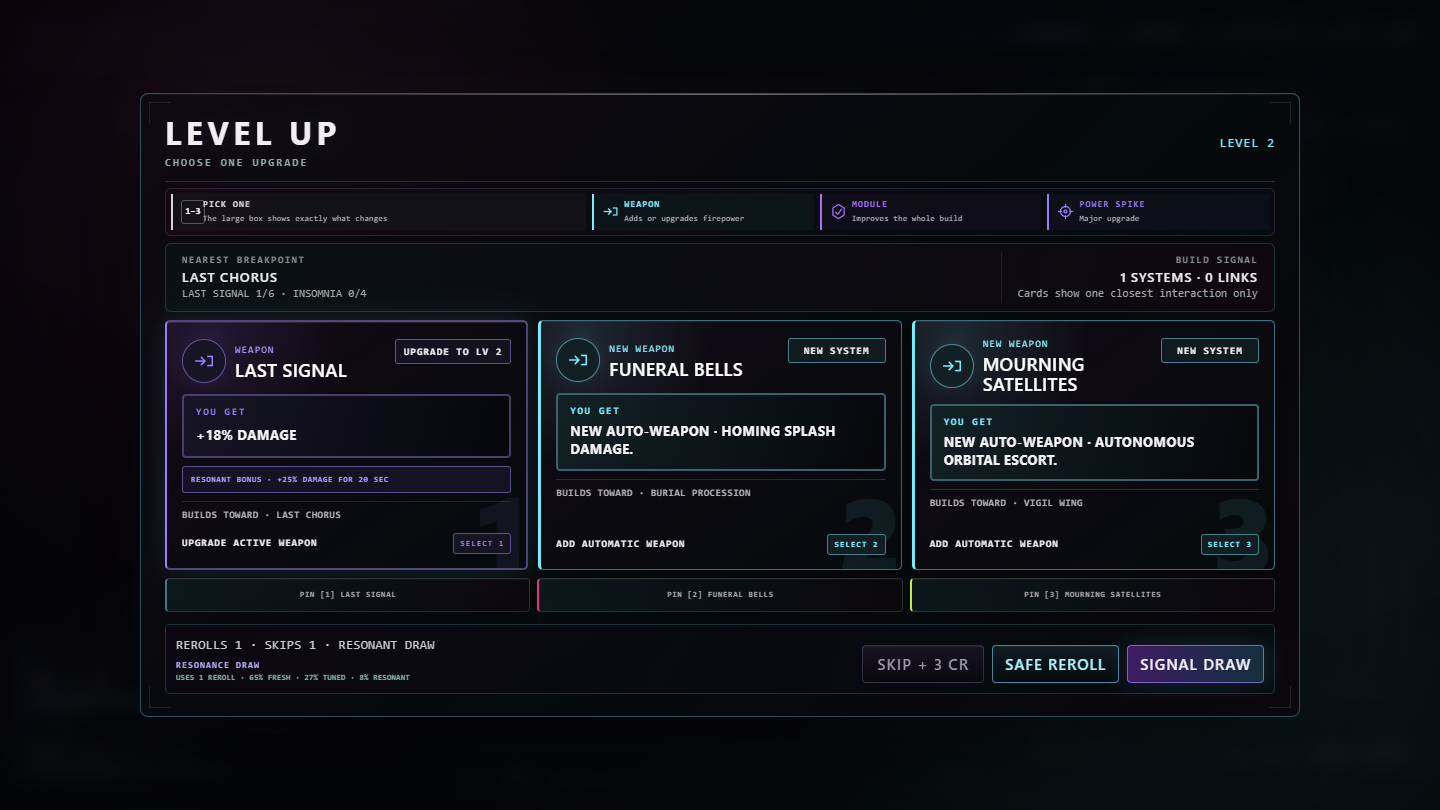
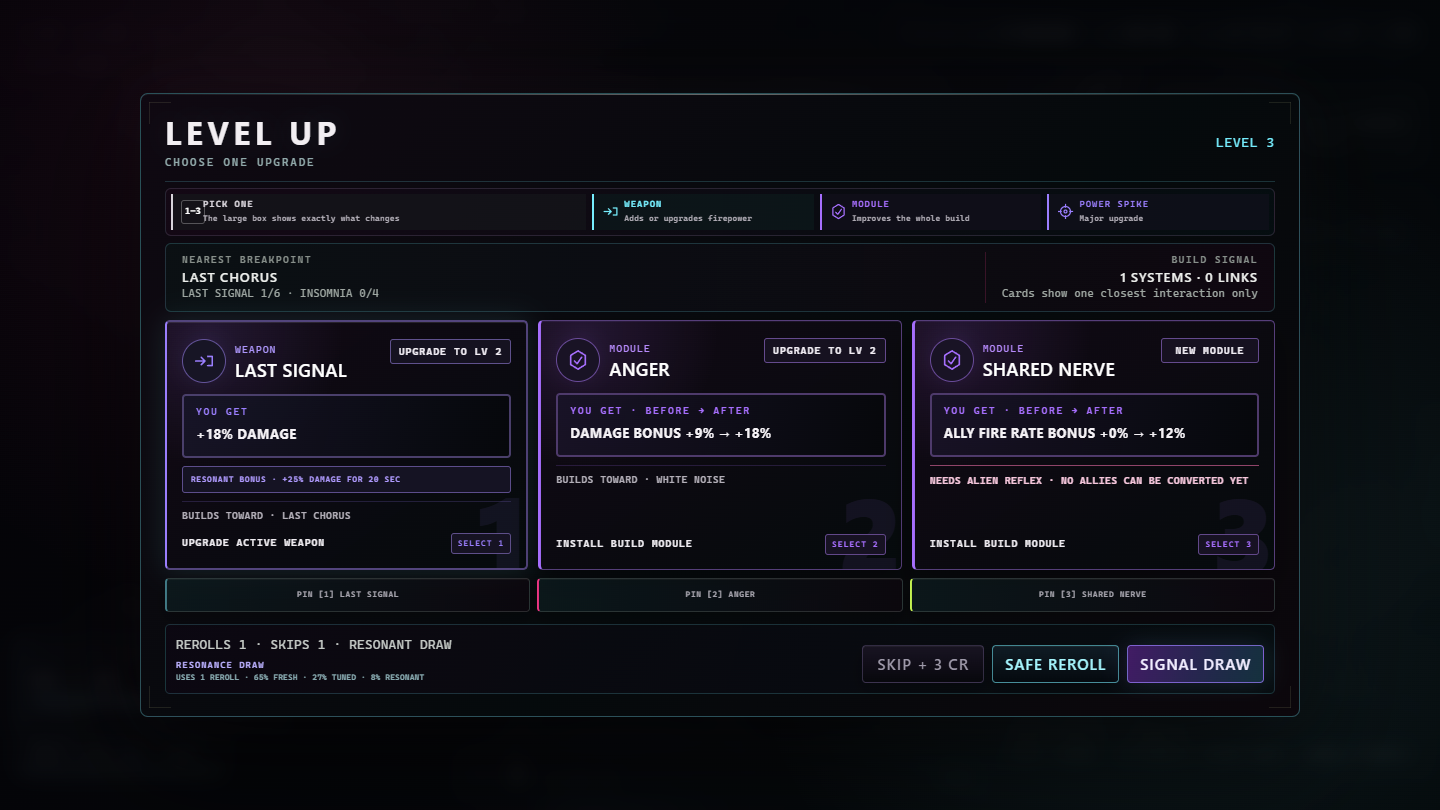
fix: clarify upgrade benefits and protect level-up input

diff --git a/game.js b/game.js
@@ -354,7 +354,7 @@ let state=null;
 
 const PASSIVES={
   reactor:{name:'ANGER',max:6,desc:l=>`Weapon damage +${l*9}%`,apply:l=>{state.p.damageMul=state.p.baseDamageMul*(1+l*.09)}},
-  overclock:{name:'INSOMNIA',max:6,desc:l=>`Weapon cooldown -${l*6}%`,apply:l=>{state.p.cooldownMul=state.p.baseCooldownMul*Math.pow(.94,l)}},
+  overclock:{name:'INSOMNIA',max:6,desc:l=>`Weapon cooldown -${Number(((1-Math.pow(.94,l))*100).toFixed(1))}%`,apply:l=>{state.p.cooldownMul=state.p.baseCooldownMul*Math.pow(.94,l)}},
   targeting:{name:'FIXATION',max:6,desc:l=>`Critical chance +${l*2.5}%`,apply:l=>{state.p.crit=state.p.baseCrit+l*.025}},
   armor:{name:'DENIAL',max:6,desc:l=>`Damage taken -${l*3.5}% · hull +${l*6}`,apply:l=>{state.p.moduleArmor=l*.035;state.p.maxHp=state.p.baseHp+l*6;state.p.hp=Math.min(state.p.hp+6,state.p.maxHp)}},
   velocity:{name:'PANIC',max:6,desc:l=>`Projectile speed +${l*11}%`,apply:l=>{state.p.projectileMul=1+l*.11}},
@@ -799,7 +799,40 @@ function offerPresentation(o,breakpoint=false){
   if(o.key==='repair')return{tone:'utility',icon:'hull',action:'REPAIR HULL NOW'};
   return{tone:'module',icon:'trait',action:'INSTALL UPGRADE'}
 }
-function offerSummary(o){if(o.key.startsWith('new:'))return`NEW AUTO-WEAPON · ${WEAPON_QUICK_DESC[o.systemId]||'Automatically attacks nearby hostiles.'}`;if(o.key.startsWith('oc:'))return'+16% DAMAGE FOR THIS EVOLVED WEAPON';if(o.key==='repair')return'RESTORE 16% MAXIMUM HULL NOW';const first=String(o.desc||'').split(/(?<=[.!?])\s+/)[0].replace(/\.$/,'');return(first.length>76?`${first.slice(0,73).trim()}…`:first).toUpperCase()}
+function upgradeNumber(value,precision=1){return String(Number(value.toFixed(precision)))}
+function passiveOfferSummary(id){
+  const level=state.passives[id]||0,next=level+1,p=state.p;
+  const bonus=(label,step)=>`${label} +${upgradeNumber(level*step)}% → +${upgradeNumber(next*step)}%`;
+  switch(id){
+    case'reactor':return bonus('DAMAGE BONUS',9);
+    case'overclock':return`COOLDOWN REDUCTION ${upgradeNumber((1-.94**level)*100)}% → ${upgradeNumber((1-.94**next)*100)}%`;
+    case'targeting':return`CRIT CHANCE ${upgradeNumber(p.crit*100)}% → ${upgradeNumber((p.baseCrit+next*.025)*100)}%`;
+    case'armor':return`MAX HULL ${upgradeNumber(p.maxHp)} → ${upgradeNumber(p.baseHp+next*6)} · ${bonus('ARMOR',3.5)}`;
+    case'velocity':return bonus('PROJECTILE SPEED BONUS',11);
+    case'thruster':return bonus('MOVEMENT SPEED BONUS',5);
+    case'magnet':return`PICKUP RADIUS ${upgradeNumber(p.magnet)} → ${upgradeNumber(p.baseMagnet+next*24)}`;
+    case'iff':return`CONVERT ON HIT ${upgradeNumber(p.convertChance*100,2)}% → ${upgradeNumber(.18+next*.20,2)}% · UP TO ${1+Math.floor(next/2)} ALLIES`;
+    case'amplifier':return bonus('AREA RADIUS BONUS',9);
+    case'capacitor':return bonus('SPECIAL FIRE RATE BONUS',7);
+    case'loyalty':return`${bonus('ALLY LIFETIME',18)} · ${bonus('ALLY DAMAGE',8)}`;
+    case'uplink':return bonus('ALLY FIRE RATE BONUS',12);
+    case'scuttle':return`ALLY DEATH BLAST ${level*35}% → ${next*35}% WEAPON OUTPUT`;
+    default:return PASSIVES[id].desc(next).toUpperCase();
+  }
+}
+function offerRequirement(o){
+  if(['loyalty','uplink','scuttle'].includes(o.passiveId)&&state.p.convertChance<=0)return'NEEDS ALIEN REFLEX · NO ALLIES CAN BE CONVERTED YET';
+  if(o.passiveId==='capacitor'&&!['nova','beam','rift'].some(id=>state.weapons[id]))return'NEEDS DEAD SUN, PALE LIGHT OR ABSENCE';
+  return'';
+}
+function offerSummary(o){
+  if(o.key.startsWith('p:'))return passiveOfferSummary(o.passiveId);
+  if(o.key.startsWith('new:'))return`NEW AUTO-WEAPON · ${WEAPON_QUICK_DESC[o.systemId]||'Automatically attacks nearby hostiles.'}`;
+  if(o.key.startsWith('oc:')){const level=state.weapons[o.systemId]?.overcharge||0;return`WEAPON OUTPUT BONUS +${level*16}% → +${(level+1)*16}%`}
+  if(o.key==='repair'){const heal=Math.max(0,Math.min(state.p.maxHp-state.p.hp,state.p.maxHp*.16*(state.contract?.heal??1)));return heal>0?`RESTORE ${upgradeNumber(heal)} HULL NOW`:'HULL ALREADY FULL · NO REPAIR NEEDED'}
+  // Keep complete tradeoffs and conditional effects visible, including a second sentence.
+  return String(o.desc||'').replace(/\.$/,'').toUpperCase();
+}
 function connectionSummary(connection){if(!connection)return'';const parts=connection.split(' · '),name=parts[1]||'';if(parts[0]==='LINK READY')return`UNLOCKS LINK · ${name}`;if(parts[0]==='LINK PATH')return`HELPS UNLOCK · ${name}`;if(parts[0]==='EVOLUTION'||parts[0]==='FUTURE EVOLUTION')return`BUILDS TOWARD · ${name}`;return parts.slice(0,2).join(' · ')}
 function offerBreakpoint(o){if(o.key.startsWith('w:'))return(state.weapons[o.systemId]?.level||0)+1===6;if(o.key.startsWith('p:'))return(state.passives[o.passiveId]||0)+1===4;return false}
 function evolutionTargets(){return Object.entries(state.weapons).filter(([_id,w])=>!w.evolved).map(([id,w])=>{const m=WEAPON_META[id],passive=state.passives[m.req]||0,progress=w.level/6*.62+Math.min(4,passive)/4*.38;return{id,w,m,passive,progress}}).sort((a,b)=>b.progress-a.progress)}
@@ -828,17 +861,41 @@ function drawFreshOffers(previousKeys=[],pinnedOffer=null,forcedOffer=null){
   return offers
 }
 const SIGNAL_DRAW_TIERS={FRESH:{tier:1,detail:'THREE NEW OFFERS'},TUNED:{tier:2,detail:'ONE BUILD-MATCHED OFFER GUARANTEED'},RESONANT:{tier:3,detail:'PRIORITY OFFER · SELECT IT FOR +25% DAMAGE / 20 SEC'}};
-function signalDrawCandidate(tier,pinnedKey=''){const pool=buildOfferPool().filter(o=>o.key!==pinnedKey),connected=pool.filter(o=>offerConnection(o)),priority=pool.filter(o=>offerBreakpoint(o)||o.key.startsWith('artifact:')||o.key.startsWith('proto:'));const candidates=tier==='RESONANT'?(priority.length?priority:connected):tier==='TUNED'?connected:[];const offer=candidates.length?weighted(candidates,1)[0]:null;return offer?{...offer,signalTier:tier}:null}
+function signalDrawCandidate(tier,pinnedKey=''){const pool=buildOfferPool().filter(o=>o.key!==pinnedKey&&!offerRequirement(o)),connected=pool.filter(o=>{const link=offerConnection(o);return link&&!link.startsWith('FUTURE EVOLUTION')}),priority=pool.filter(o=>offerBreakpoint(o)||o.key.startsWith('artifact:')||o.key.startsWith('proto:'));const candidates=tier==='RESONANT'?(priority.length?priority:connected):tier==='TUNED'?connected:[];const offer=candidates.length?weighted(candidates,1)[0]:null;return offer?{...offer,signalTier:tier}:null}
 function renderRerollInfo(isNewDraw=false,signalTier=''){const pinned=state.pinnedOfferKey?' · 1 PINNED':'',draw=signalTier?` · ${signalTier} DRAW`:isNewDraw?' · NEW DRAW':'';$('rerollInfo').textContent=`REROLLS ${state.rerolls} · SKIPS ${state.skips}${pinned}${draw}`}
 function renderOfferPins(offers){const box=$('offerPins');box.innerHTML='';for(const [i,o] of offers.entries()){const b=document.createElement('button'),pinned=state.pinnedOfferKey===o.key;b.className=`offerPin${pinned?' selected':''}`;b.textContent=`${pinned?'PINNED':'PIN'} [${i+1}] ${o.name}`;b.setAttribute('aria-pressed',String(pinned));b.onclick=()=>togglePinnedOffer(o.key);box.appendChild(b)}}
-function togglePinnedOffer(key){if(!state?.choosing||state.choiceMode!=='level')return false;state.pinnedOfferKey=state.pinnedOfferKey===key?'':key;AUDIO.sfx('ui');renderOfferPins(state.currentOffers);renderRerollInfo();return true}
+function togglePinnedOffer(key){if(!state?.choosing||state.choiceMode!=='level')return false;const index=state.currentOffers.findIndex(o=>o.key===key);if(index<0)return false;state.pinnedOfferKey=state.pinnedOfferKey===key?'':key;AUDIO.sfx('ui');renderOfferPins(state.currentOffers);renderRerollInfo();$('offerPins').children[index]?.focus({preventScroll:true});return true}
 function openLevel(){state.choosing=true;state.choiceMode='level';state.paused=true;state.pinnedOfferKey='';AUDIO.sfx('level');show('levelScreen');renderOffers()}
-function renderOffers(previousKeys=[],pinnedOffer=null,draw={}){const offers=drawFreshOffers(previousKeys,pinnedOffer,draw.forcedOffer||null),c=$('choices');c.innerHTML='';renderBuildCompass();offers.forEach((o,i)=>{const b=document.createElement('button'),connection=offerConnection(o),shortConnection=connectionSummary(connection),breakpoint=offerBreakpoint(o),impact=offerImpact(o),summary=offerSummary(o),presentation=offerPresentation(o,breakpoint),signalNote=o.signalTier==='RESONANT'?'RESONANT BONUS · +25% DAMAGE FOR 20 SEC':o.signalTier==='TUNED'?'TUNED SIGNAL · MATCHES YOUR CURRENT BUILD':'';b.className=`choice${breakpoint?' breakpoint':''}${o.signalTier?' signalOffer':''}`;b.dataset.tone=presentation.tone;if(o.signalTier)b.dataset.signal=o.signalTier.toLowerCase();b.style.animationDelay=`${i*55}ms`;b.innerHTML=`<span class="choiceNumber" aria-hidden="true">${i+1}</span><span class="choiceTop"><span class="choiceIdentity"><span class="choiceGlyph">${uiIconMarkup(presentation.icon)}</span><span><span class="kind">${o.kind}</span><span class="name">${o.name}</span></span></span><span class="lvl">${o.lvl}</span></span><span class="choiceBenefit"><small>YOU GET</small><b>${summary}</b></span>${signalNote?`<span class="signalBonus">${signalNote}</span>`:''}${shortConnection?`<span class="connection">${shortConnection}</span>`:''}<span class="choiceAction"><span>${presentation.action}</span><kbd>SELECT ${i+1}</kbd></span>`;b.title=[o.desc,impact,signalNote,connection].filter(Boolean).join('\n');b.setAttribute('aria-label',[`${i+1}. ${o.name}`,o.lvl,summary,signalNote,connection].filter(Boolean).join('. '));b.onclick=()=>selectOffer(o);c.appendChild(b)});state.currentOffers=offers;renderOfferPins(offers);renderRerollInfo(previousKeys.length>0,draw.tier||'');$('rerollBtn').disabled=state.rerolls<=0;$('signalDrawBtn').disabled=state.rerolls<=0;$('skipBtn').disabled=state.skips<=0;$('levelMeta').textContent=`LEVEL ${state.level}`}
-function selectOffer(o){if(!o)return;const breakpoint=offerBreakpoint(o),special=o.key.startsWith('artifact:')||o.key.startsWith('proto:');if(!special)AUDIO.sfx('install',breakpoint?2:1);o.apply();if(o.signalTier==='RESONANT'){state.fieldBoostUntil=Math.max(state.fieldBoostUntil,state.time+20);rewardCue('RESONANT INSTALL',`${o.name} · +25% DAMAGE FOR 20 SEC`,3,1700)}recordUpgrade(o.name,o.kind,[o.lvl,o.signalTier==='RESONANT'?'+25% DAMAGE / 20 SEC':''].filter(Boolean).join(' · '));state.pinnedOfferKey='';state.upgradePulse=.9;state.lastUpgradeLabel=o.name;const evolved=tryEvolutions();if(breakpoint&&!evolved.length&&o.signalTier!=='RESONANT')rewardCue('BREAKPOINT REACHED',o.name,1,1250);hide('levelScreen');state.choosing=false;state.choiceMode='';state.paused=false;state.last=performance.now();processCeremony();if(!state.ceremony)processPendingLevel()}
-$('rerollBtn').onclick=()=>{if(state.rerolls>0){const previousKeys=state.currentOffers.map(o=>o.key),pinnedOffer=state.currentOffers.find(o=>o.key===state.pinnedOfferKey)||null;state.rerolls--;AUDIO.sfx('reroll');renderOffers(previousKeys,pinnedOffer)}};
-$('signalDrawBtn').onclick=()=>{if(state.rerolls<=0)return;const previousKeys=state.currentOffers.map(o=>o.key),pinnedOffer=state.currentOffers.find(o=>o.key===state.pinnedOfferKey)||null,roll=Math.random(),tier=roll<.08?'RESONANT':roll<.35?'TUNED':'FRESH',forcedOffer=signalDrawCandidate(tier,pinnedOffer?.key||'');state.rerolls--;AUDIO.sfx(tier==='RESONANT'?'artifact':tier==='TUNED'?'streak':'reroll');renderOffers(previousKeys,pinnedOffer,{tier,forcedOffer});const result=SIGNAL_DRAW_TIERS[tier];rewardCue(`SIGNAL DRAW · ${tier}`,result.detail,result.tier,1500)};
-$('skipBtn').onclick=()=>{if(state.skips<=0)return;state.skips--;state.pinnedOfferKey='';recordUpgrade('SALVAGE CONVERSION','UTILITY','SKIPPED UPGRADE · +3 CR');runCredit(3);state.score+=40;AUDIO.sfx('ui');hide('levelScreen');state.choosing=false;state.choiceMode='';state.paused=false;state.last=performance.now();message('SALVAGE +3 CR',500);processPendingLevel()};
-addEventListener('keydown',e=>{if(!state?.choosing)return;const i=Number(e.key)-1;if(i<0)return;if(state.choiceMode==='doctrine'){const o=state.currentDoctrineOffers?.[i];if(o)selectDoctrine(o.id)}else{const o=state.currentOffers?.[i];if(o)selectOffer(o)}});
+function renderOffers(previousKeys=[],pinnedOffer=null,draw={}){
+  const offers=drawFreshOffers(previousKeys,pinnedOffer,draw.forcedOffer||null),c=$('choices');
+  c.innerHTML='';renderBuildCompass();
+  offers.forEach((o,i)=>{
+    const b=document.createElement('button'),connection=offerConnection(o),requirement=offerRequirement(o),shortConnection=connectionSummary(connection),breakpoint=offerBreakpoint(o),impact=offerImpact(o),summary=offerSummary(o),presentation=offerPresentation(o,breakpoint),signalNote=o.signalTier==='RESONANT'?'RESONANT BONUS · +25% DAMAGE FOR 20 SEC':o.signalTier==='TUNED'?'TUNED SIGNAL · MATCHES YOUR CURRENT BUILD':'';
+    b.className=`choice${breakpoint?' breakpoint':''}${o.signalTier?' signalOffer':''}`;
+    b.dataset.tone=presentation.tone;if(o.signalTier)b.dataset.signal=o.signalTier.toLowerCase();
+    b.style.animationDelay=`${i*55}ms`;
+    b.innerHTML=`<span class="choiceNumber" aria-hidden="true">${i+1}</span><span class="choiceTop"><span class="choiceIdentity"><span class="choiceGlyph">${uiIconMarkup(presentation.icon)}</span><span><span class="kind">${o.kind}</span><span class="name">${o.name}</span></span></span><span class="lvl">${o.lvl}</span></span><span class="choiceBenefit"><small>YOU GET${o.passiveId?' · BEFORE → AFTER':''}</small><b>${summary}</b></span>${signalNote?`<span class="signalBonus">${signalNote}</span>`:''}${requirement?`<span class="connection choiceRequirement">${requirement}</span>`:shortConnection?`<span class="connection">${shortConnection}</span>`:''}<span class="choiceAction"><span>${presentation.action}</span><kbd>SELECT ${i+1}</kbd></span>`;
+    b.title=[o.desc,impact,requirement,signalNote,connection].filter(Boolean).join('\n');
+    b.setAttribute('aria-label',[`${i+1}. ${o.name}`,o.lvl,summary,requirement,signalNote,connection].filter(Boolean).join('. '));
+    b.onclick=()=>selectOffer(o);c.appendChild(b);
+  });
+  state.currentOffers=offers;renderOfferPins(offers);renderRerollInfo(previousKeys.length>0,draw.tier||'');
+  $('rerollBtn').disabled=state.rerolls<=0;$('signalDrawBtn').disabled=state.rerolls<=0;$('skipBtn').disabled=state.skips<=0;$('levelMeta').textContent=`LEVEL ${state.level}`;
+  c.querySelector('button')?.focus({preventScroll:true});
+}
+function selectOffer(o){if(!o||!state?.choosing||state.choiceMode!=='level'||!state.currentOffers.includes(o))return false;state.currentOffers=[];const breakpoint=offerBreakpoint(o),special=o.key.startsWith('artifact:')||o.key.startsWith('proto:');if(!special)AUDIO.sfx('install',breakpoint?2:1);o.apply();if(o.signalTier==='RESONANT'){state.fieldBoostUntil=Math.max(state.fieldBoostUntil,state.time+20);rewardCue('RESONANT INSTALL',`${o.name} · +25% DAMAGE FOR 20 SEC`,3,1700)}recordUpgrade(o.name,o.kind,[o.lvl,o.signalTier==='RESONANT'?'+25% DAMAGE / 20 SEC':''].filter(Boolean).join(' · '));state.pinnedOfferKey='';state.upgradePulse=.9;state.lastUpgradeLabel=o.name;const evolved=tryEvolutions();if(breakpoint&&!evolved.length&&o.signalTier!=='RESONANT')rewardCue('BREAKPOINT REACHED',o.name,1,1250);hide('levelScreen');state.choosing=false;state.choiceMode='';state.paused=false;state.last=performance.now();processCeremony();if(!state.ceremony)processPendingLevel();return true}
+$('rerollBtn').onclick=()=>{if(state?.choosing&&state.choiceMode==='level'&&state.rerolls>0){const previousKeys=state.currentOffers.map(o=>o.key),pinnedOffer=state.currentOffers.find(o=>o.key===state.pinnedOfferKey)||null;state.rerolls--;AUDIO.sfx('reroll');renderOffers(previousKeys,pinnedOffer)}};
+$('signalDrawBtn').onclick=()=>{if(!state?.choosing||state.choiceMode!=='level'||state.rerolls<=0)return;const previousKeys=state.currentOffers.map(o=>o.key),pinnedOffer=state.currentOffers.find(o=>o.key===state.pinnedOfferKey)||null,roll=Math.random(),tier=roll<.08?'RESONANT':roll<.35?'TUNED':'FRESH',forcedOffer=signalDrawCandidate(tier,pinnedOffer?.key||'');state.rerolls--;AUDIO.sfx(tier==='RESONANT'?'artifact':tier==='TUNED'?'streak':'reroll');renderOffers(previousKeys,pinnedOffer,{tier,forcedOffer});const result=SIGNAL_DRAW_TIERS[tier];rewardCue(`SIGNAL DRAW · ${tier}`,result.detail,result.tier,1500)};
+$('skipBtn').onclick=()=>{if(!state?.choosing||state.choiceMode!=='level'||state.skips<=0)return;state.skips--;state.currentOffers=[];state.pinnedOfferKey='';recordUpgrade('SALVAGE CONVERSION','UTILITY','SKIPPED UPGRADE · +3 CR');runCredit(3);state.score+=40;AUDIO.sfx('ui');hide('levelScreen');state.choosing=false;state.choiceMode='';state.paused=false;state.last=performance.now();message('SALVAGE +3 CR',500);processPendingLevel()};
+addEventListener('keydown',e=>{
+  if(!state?.choosing||e.altKey||e.ctrlKey||e.metaKey)return;
+  if(e.repeat&&(/^[1-3]$/.test(e.key)||e.key==='Enter'||e.key===' ')){e.preventDefault();return}
+  if(!/^[1-3]$/.test(e.key))return;
+  const overlay=visibleOverlay(),expected=state.choiceMode==='doctrine'?'doctrineScreen':'levelScreen';
+  if(overlay&&overlay.id!==expected)return;
+  const i=Number(e.key)-1;e.preventDefault();
+  if(state.choiceMode==='doctrine'){const o=state.currentDoctrineOffers?.[i];if(o)selectDoctrine(o.id)}else{const o=state.currentOffers?.[i];if(o)selectOffer(o)}
+});
 
 // ---------- RUN START / SPAWNING ----------
 let briefingPreviewMode=false;

diff --git a/tests/smoke.js b/tests/smoke.js
@@ -258,3 +258,42 @@ vm.runInContext(`
   if(!state.gameOver || !state.victory || state.bossesKilled<3) throw new Error('full run timeline failed');
 `,ctx);
 console.log('ORBIT full-run timeline: PASS');
+
+vm.runInContext(`{
+  toMenu();save.settings.audio='OFF';save.briefingSeen=true;save.contract='NONE';save.selected='striker';startRun();
+  state.level=5;
+  const passive=id=>({key:'p:'+id,passiveId:id});
+  if(offerSummary(passive('iff'))!=='CONVERT ON HIT 0% → 0.38% · UP TO 1 ALLIES')throw new Error('conversion summary lost fractional precision');
+  for(const id of Object.keys(PASSIVES)){
+    state.passives[id]=1;PASSIVES[id].apply(1);
+    const summary=offerSummary(passive(id));
+    if(!summary.includes('→')||/NaN|undefined/.test(summary))throw new Error('missing before/after module summary: '+id);
+  }
+  if(offerSummary(passive('reactor'))!=='DAMAGE BONUS +9% → +18%')throw new Error('module total was presented as an additional gain');
+  if(offerSummary(passive('overclock'))!=='COOLDOWN REDUCTION 6% → 11.6%'||!PASSIVES.overclock.desc(2).includes('11.6%'))throw new Error('cooldown description ignored multiplicative stacking');
+  state.p.convertChance=0;
+  for(const id of ['loyalty','uplink','scuttle'])if(!offerRequirement(passive(id)).includes('NEEDS ALIEN REFLEX'))throw new Error('ally module omitted its dependency');
+  if(!offerRequirement(passive('capacitor')).includes('PALE LIGHT'))throw new Error('special module omitted compatible systems');
+  state.p.convertChance=.0038;addWeapon('beam');
+  if(offerRequirement(passive('loyalty'))||offerRequirement(passive('capacitor')))throw new Error('dependency warning persisted for compatible build');
+  state.p.hp=state.p.maxHp-2;
+  if(offerSummary({key:'repair'})!=='RESTORE 2 HULL NOW')throw new Error('repair summary ignored missing hull');
+  state.p.hp=state.p.maxHp;
+  if(!offerSummary({key:'repair'}).includes('ALREADY FULL'))throw new Error('full-hull repair promised a benefit');
+  const tradeoff='Increases output. Incoming damage +10%.';
+  if(!offerSummary({key:'proto:test',desc:tradeoff}).includes('INCOMING DAMAGE +10%'))throw new Error('tradeoff was truncated');
+  state.p.convertChance=0;delete state.weapons.beam;
+  for(let i=0;i<40;i++){const offer=signalDrawCandidate('TUNED');if(offer&&(offerRequirement(offer)||offerConnection(offer).startsWith('FUTURE EVOLUTION')))throw new Error('tuned draw selected an incompatible future build');}
+  openLevel();
+  const stale=state.currentOffers[0];renderOffers();const history=state.upgradeHistory.length;
+  if(selectOffer(stale)!==false||state.upgradeHistory.length!==history)throw new Error('stale offer applied after reroll');
+  let prevented=0;const choiceKey=windowListeners.keydown.at(-1),event={key:'1',repeat:true,preventDefault(){prevented++}};
+  choiceKey(event);choiceKey({...event,key:'Enter'});choiceKey({...event,key:' '});
+  if(prevented!==3||state.upgradeHistory.length!==history)throw new Error('held key consumed upgrade');
+  choiceKey({...event,repeat:false,altKey:true});if(state.upgradeHistory.length!==history)throw new Error('system shortcut selected an upgrade');
+  const picked=state.currentOffers[0];choiceKey({...event,repeat:false});
+  if(state.upgradeHistory.length!==history+1||selectOffer(picked)!==false)throw new Error('offer was not selected exactly once');
+  const resources=[state.rerolls,state.skips];$('rerollBtn').onclick();$('signalDrawBtn').onclick();$('skipBtn').onclick();
+  if(state.rerolls!==resources[0]||state.skips!==resources[1])throw new Error('hidden upgrade controls spent resources');
+}`,ctx);
+console.log('ORBIT upgrade clarity and input safety: PASS');

diff --git a/styles.css b/styles.css
@@ -498,5 +498,7 @@ button:hover:not(:disabled){border-color:rgba(195,190,140,.78);background:linear
 .toast.intel{border-color:rgba(83,229,255,.74);border-left-color:#53e5ff;background:linear-gradient(135deg,rgba(6,19,27,.99),rgba(13,8,20,.99));box-shadow:0 0 0 1px rgba(83,229,255,.08),0 14px 42px rgba(0,0,0,.68)}.toast.intel b{color:#e9fdff;text-shadow:0 0 12px rgba(83,229,255,.30)}.toast.intel span{color:#d7f8ff;font-weight:700}
 #pauseScreen .pauseSnapshot span{font-size:calc(9.5px * var(--ui-scale));font-weight:750;color:#a1a7af}#pauseScreen .pauseSnapshot b{font-size:calc(13px * var(--ui-scale))}
 #levelScreen .choiceBenefit small{font-size:calc(9px * var(--ui-scale));color:var(--choice-accent)}#levelScreen .choiceBenefit b{font-size:calc(12px * var(--ui-scale))}#levelScreen .choice .connection,#levelScreen .choiceAction{font-size:calc(9px * var(--ui-scale))}.choiceGuide small{font-size:calc(8.5px * var(--ui-scale));color:#b4afb8}
+#levelScreen .choice .choiceRequirement{color:#ffc7dd;border-top-color:#9a4269;line-height:1.5}
+#levelScreen .choiceBenefit b{line-height:1.45;overflow-wrap:anywhere}
 .intelMetric span,.intelItem small,.intelBadge,.intelHelp{font-size:calc(9.5px * var(--ui-scale));color:#aeb5b2}.intelItem p{font-size:calc(11px * var(--ui-scale));color:#c2cac6}
 @media(max-width:780px){#navigationSignal{min-width:240px;max-width:340px}#navigationSignal b{font-size:calc(10px * var(--ui-scale))}#navigationSignal small{font-size:calc(8.5px * var(--ui-scale))}#directiveTracker b{font-size:calc(10px * var(--ui-scale))}#wrap:has(#directiveTracker:not(.hidden)) #toastStack{top:160px}}

diff --git a/README.md b/README.md
@@ -54,7 +54,7 @@ The supported runtime is the top-down game loaded by `index.html`. Three.js is t
 - level-end pickup convergence, boss-clear salvage sweeps, and correctly queued multi-level rewards
 - rerolls protected against returning an identical draw, with one upgrade card optionally pinned through the reroll
 - an optional Resonance Draw that spends one earned reroll, discloses its 65% / 27% / 8% outcome table, and never uses real-money currency
-- concise level-up cards showing one immediate effect and one relevant build link, with full mechanical detail retained in tooltips and accessible labels
+- level-up cards with before/after module bonuses, missing-system warnings, complete tradeoffs, and one relevant build link; pinning and rerolling preserve keyboard focus
 - selectable automatic targeting priorities for nearest, damaged, or elite hostiles
 - a low-noise combat tracker for the build's nearest weapon evolution
 - an in-run signal scanner that filters procedural discoveries by support, time anomaly, or risk category and states each signal's exact benefit or risk before collection
@@ -124,7 +124,7 @@ This 1440 × 810 image was captured from the active 0.92.0 Electron/Three.js Web
 
 ![ORBIT//04 version 0.92.0 level-up interface](docs/level-up-v0.92.0.png)
 
-The level-up capture verifies the cold cyan-violet hierarchy, plain-language `NEW MODULE`, `NEW SYSTEM`, and `UPGRADE TO LV` states, dominant instant-effect summaries, and the disclosed earned-reroll Resonance Draw at the same desktop resolution.
+The level-up capture shows the cold cyan-violet hierarchy, before/after module bonuses, a missing-system warning, and the disclosed earned-reroll Resonance Draw at the same desktop resolution. It is captured from the running game with a deterministic draw.
 
 ## Audio implementation
 

diff --git a/CHANGELOG.md b/CHANGELOG.md
@@ -2,6 +2,12 @@
 
 ## 0.92.0 — Hostile Ecology and Resonance
 
+- show module bonuses before and after installation, with accurate compound cooldown reduction and capped hull repair previews
+- expose missing weapon or conversion requirements on upgrade cards and exclude incompatible future builds from tuned draws
+- retain complete protocol tradeoffs and artifact conditions instead of truncating their descriptions
+- reject stale upgrade selections and held-key repeats; retain keyboard focus when pinning or rerolling cards
+- extend upgrade regression tests and desktop layout checks across all three supported test resolutions
+
 - added locked-frame previews with explicit credit purchases and an owned-frame roster filter
 - preserved roster position and card focus after frame selection
 - restored native keyboard Tab navigation in menus and gamepad access to expandable sections
